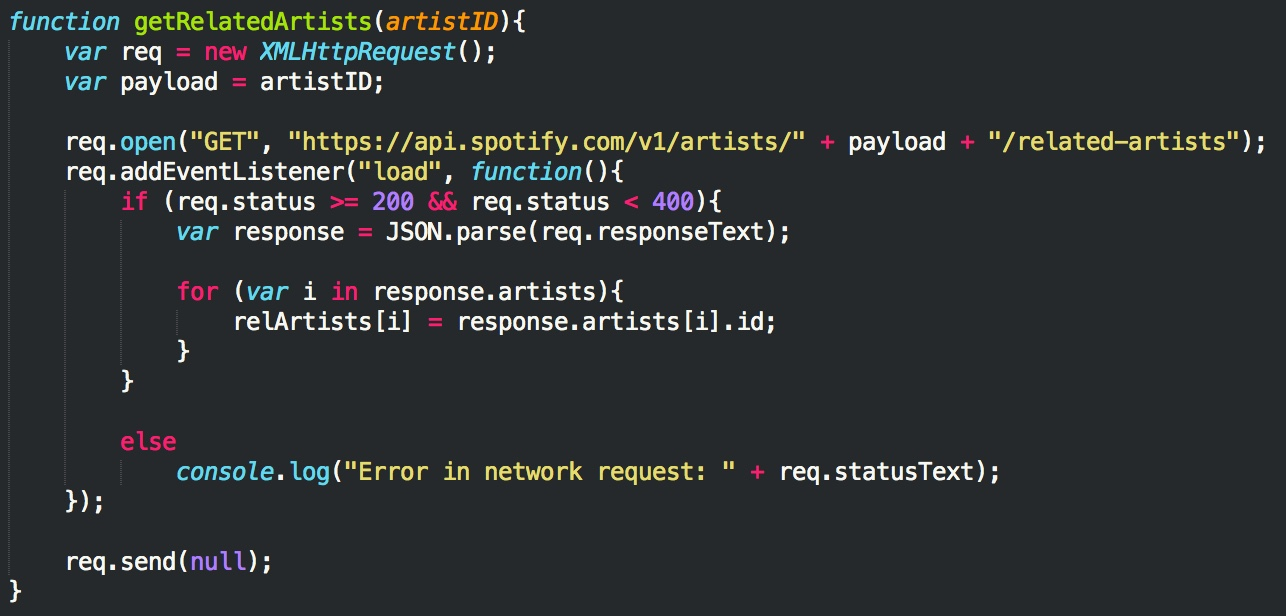
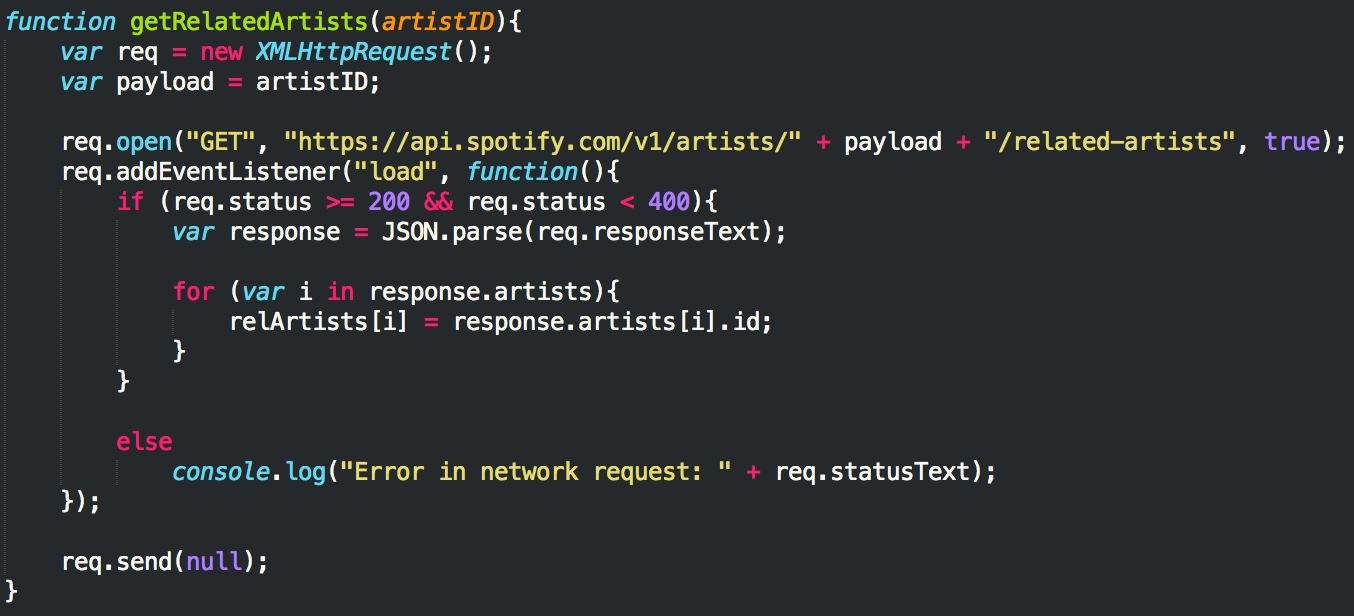
updated images, page4

diff --git a/page4.html b/page4.html
@@ -47,13 +47,16 @@
 					</header>
 
 					<h3>Getting the artist's Spotify ID and their related artists</h3>
-					<p>We're going to recycle most of the code we used in the simple artist search from the previous page, but this time instead of extracting profile data from the response, we're interested in retrieving the artist's Spotify ID, which is a base-62 identifer unique to every item in Spotify's catalogue (artists, tracks, albums, playlists, etc). Everything looks pretty much the same, except we'll be saving the artist ID from the JSON object to the <code>artistID</code>variable:
+					<p>We're going to recycle most of the code we used in the simple artist search from the previous page, but this time instead of extracting profile data from the response, we're interested in retrieving the artist's Spotify ID, which is a base-62 identifer unique to every item in Spotify's catalogue (artists, tracks, albums, playlists, etc). Everything looks pretty much the same, except we'll be saving the Spotify ID from the JSON object to the <code>artistID</code>variable:
 					<br>
 					<img src="images/modifiedSearch.jpg" style="max-width:40%">
 					<br>
 					Then the function <code>getRelatedArtists</code> is called; this function receives the <code>artistID</code> and makes a call to the endpoint that retrieves an artist's related artists. That endpoint looks like this: <code>GET https://api.spotify.com/v1/artists/{id}/related-artists</code>
 					<br>
-					
+					If the request is successful, we'll then store all related artists' Spotify IDs in an array called <code>relArtists</code>:
+					<br>
+					<img src="images/getRelArtists.jpg" style="max-width:50%">
+
 					</p>
 					
 
